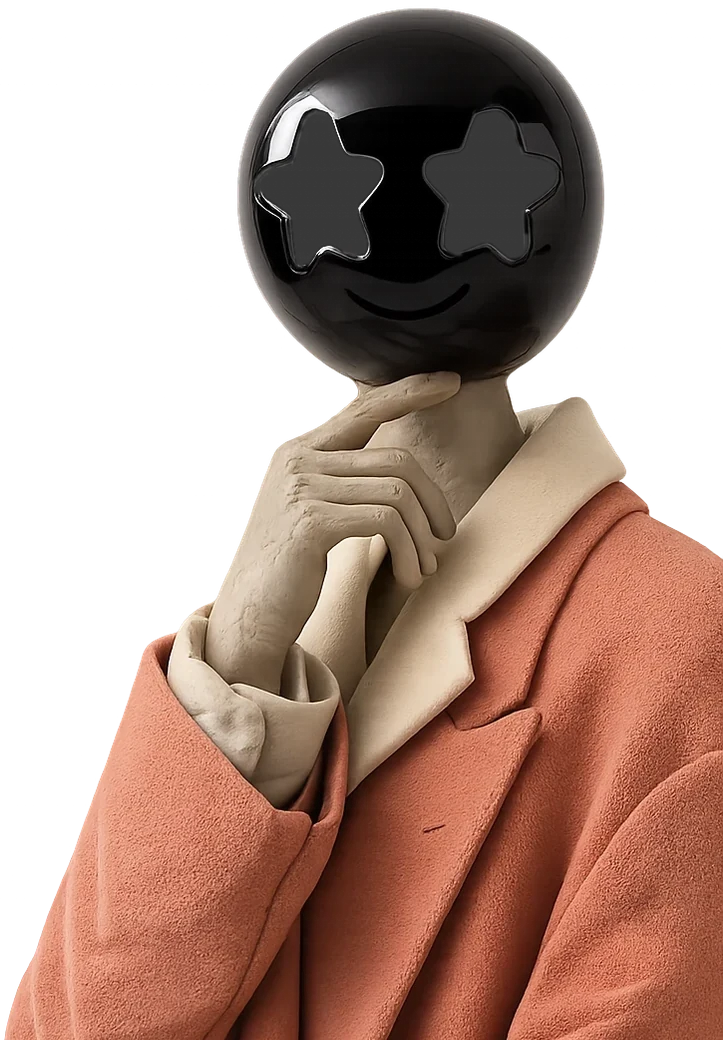
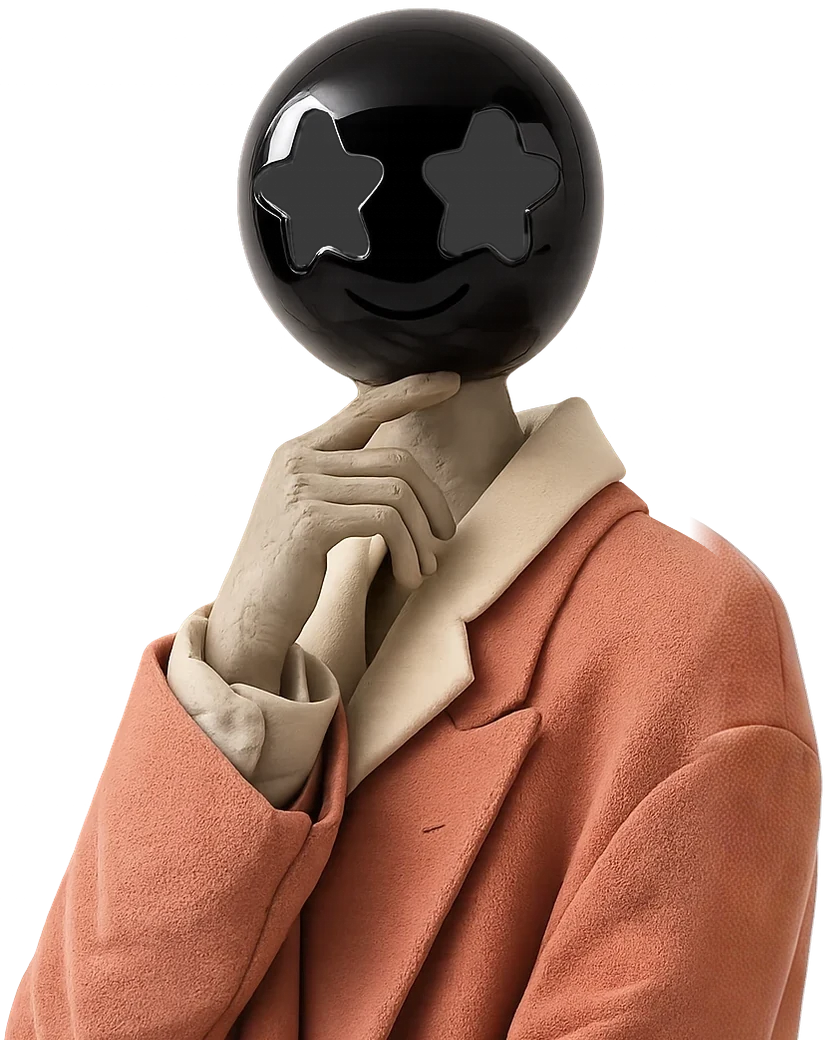
Hero: complete the right shoulder via Higgsfield outpaint graft
The final render's art ends mid-shoulder at its right edge. Outpaint
the flattened figure (1:1), register the re-render by ball geometry
(k=0.8818), colour-match on the 24k-px overlap, graft only x>=990
with a blend ramp, key white to alpha. Canvas 723->830 wide sized to
the completed silhouette (max src-x 1123); ball now at 50.82% —
--hiw clamp(530px, 56.5vw, 767px), aspect 830/1040,
translateX(-50.82%), HEAD {cx .5082, r .2084}.

diff --git a/src/app/globals.css b/src/app/globals.css
@@ -1160,12 +1160,13 @@ html body {
   /* one size source for the character — 0.85× the original so more of the
      figure shows; the marquee text + lens icons scale by the same factor
      below, keeping the head-through-text ratio exactly the original.
-     ×1.0042 vs the old 720-wide base (460/49vw/665): the hero file is a
-     723×1040 upper-body cut of the user's final clay render (full art
-     width visible, coat bleeding right + bottom). Ball at 58.34% of the
-     canvas width → wrapper anchors translateX(-58.34%), lens HEAD.cx
-     0.5834 — ball screen position and size unchanged as always. */
-  --hiw: clamp(462px, 49.2vw, 668px);
+     ×1.1528 vs the old 720-wide base (460/49vw/665): the hero file is an
+     830×1040 upper-body cut of the user's final clay render with the
+     right shoulder completed (Higgsfield outpaint graft) — full
+     silhouette in frame, coat bleeding bottom. Ball at 50.82% of the
+     canvas width → wrapper anchors translateX(-50.82%), lens HEAD.cx
+     0.5082 — ball screen position and size unchanged as always. */
+  --hiw: clamp(530px, 56.5vw, 767px);
 }
 /* marquee text + pulse star at 0.85× the template's three tiers
    (!important: /css/main.css loads after globals) */
@@ -1191,9 +1192,9 @@ html body {
   /* translateY(-18%) pins the HEAD CENTRE (18% of image height) to the line
      centre; the body drops toward the fold and is clipped by the hero =
      grounded, not floating */
-  /* -58.34% (not -50%): anchors the BALL (at 58.34% of image width) to
-     the same screen spot the old centred ball had */
-  transform: translateX(-58.34%) translateY(-18%) !important;
+  /* -50.82%: anchors the BALL (at 50.82% of image width) to the same
+     screen spot the old centred ball had */
+  transform: translateX(-50.82%) translateY(-18%) !important;
 }
 .mxd-hero-02-marquee__image img {
   width: 100%;
@@ -1201,8 +1202,8 @@ html body {
   /* reserve the final box before decode: a late-decoding hero image must not
      change document height — that fired a global ScrollTrigger.refresh that
      could land as a visible stutter while already scrolling the card stack.
-     Matches the hero file's canvas (723×1040 upper-body cut). */
-  aspect-ratio: 723 / 1040;
+     Matches the hero file's canvas (830×1040 upper-body cut). */
+  aspect-ratio: 830 / 1040;
 }
 /* clip the character's coat at the hero's edge so the figure stands into
    the fold instead of spilling into the next section */

diff --git a/src/components/HeroMarqueeLens.tsx b/src/components/HeroMarqueeLens.tsx
@@ -138,7 +138,7 @@ export default function HeroMarqueeLens() {
       // The clay character's HEAD is the lens now: ball centre at
       // (58.34%, 18%) of the 723×1040 upper-body canvas, star eyes riding
       // slightly above centre at 15.2%. r = ball radius / width (173/723).
-      const HEAD = { cx: 0.5834, cy: 0.18, r: 0.2393, eyeCy: 0.152 };
+      const HEAD = { cx: 0.5082, cy: 0.18, r: 0.2084, eyeCy: 0.152 };
 
       // Static band geometry — only changes on resize, never per frame.
       // The head sits ON the marquee line (original composition): the icon
